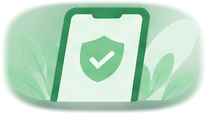
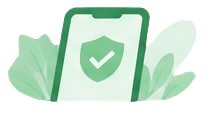
feat: add interactive transaction calendar

Changed region(s): [[0.0, 0.0, 0.9855, 1.0]]

diff --git a/src/pages/Calendar.jsx b/src/pages/Calendar.jsx
@@ -1,0 +1,123 @@
+import { useMemo, useState } from 'react';
+import { useNavigate } from 'react-router-dom';
+import { useApp } from '../context/AppContext';
+import { money } from '../lib/format';
+import { r2, cmpTx } from '../lib/stats';
+import { monthCells, shiftMonth, todayKey, dateKey, monthPrefix, groupByDate, summarize } from '../lib/calendar';
+import { TYPE_FILTERS, matchType } from '../lib/txFilter';
+import { categoryIcon, EMPTY_ART, CALENDAR_ART } from '../assets';
+import StatCard from '../components/StatCard';
+import EmptyState from '../components/EmptyState';
+
+const WEEK = ['Mon', 'Tue', 'Wed', 'Thu', 'Fri', 'Sat', 'Sun'];
+const TYPE_LABEL = { income: 'Income', expense: 'Expense', exchange: 'Exchange' };
+const compact = (v) => new Intl.NumberFormat(undefined, { notation: 'compact', maximumFractionDigits: 1 }).format(v);
+// Labels are formatted from UTC fields so the shown weekday/date can never shift with the viewer's timezone.
+const utcDate = (y, m, d) => new Date(Date.UTC(y, m, d));
+const longDate = (key) => { const p = /^(\d{4})-(\d{2})-(\d{2})$/.exec(key); return p ? utcDate(+p[1], +p[2] - 1, +p[3]).toLocaleDateString(undefined, { timeZone: 'UTC', weekday: 'long', year: 'numeric', month: 'long', day: 'numeric' }) : key; };
+const selFor = ({ y, m }) => (todayKey().startsWith(monthPrefix(y, m)) ? todayKey() : dateKey(y, m, 1));
+
+// Short per-day indicator lines: main currency first, other currencies tagged with their code. Exchange gets its own marker.
+function cellLines(sum, cur) {
+  const lines = [];
+  for (const c of Object.keys(sum.byCur).sort((a, b) => (a === cur ? -1 : b === cur ? 1 : a.localeCompare(b)))) {
+    const tag = c === cur ? '' : ' ' + c, { income, expense } = sum.byCur[c];
+    if (income > 0) lines.push({ kind: 'inc', text: `+${compact(income)}${tag}` });
+    if (expense > 0) lines.push({ kind: 'exp', text: `−${compact(expense)}${tag}` });
+  }
+  if (sum.exchanges) lines.push({ kind: 'exch', text: `⇄ ${sum.exchanges}` });
+  return lines;
+}
+function describe(key, sum) {
+  const parts = [];
+  for (const [c, v] of Object.entries(sum.byCur)) { if (v.income) parts.push(`income ${money(v.income, c)}`); if (v.expense) parts.push(`expenses ${money(v.expense, c)}`); }
+  if (sum.exchanges) parts.push(`${sum.exchanges} exchange${sum.exchanges > 1 ? 's' : ''}`);
+  return `${longDate(key)}${parts.length ? ': ' + parts.join(', ') : ': no transactions'}`;
+}
+
+function DayRow({ t }) {
+  const x = t.type === 'exchange';
+  const amt = x ? `${money(t.amount, t.currency)} → ${money(t.to_amount, t.to_currency)}` : (t.type === 'income' ? '+' : '−') + money(t.amount, t.currency);
+  return (
+    <li className="row">
+      <img className="cat-icon" src={categoryIcon(t.category)} alt="" />
+      <div className="grow">
+        <strong>{t.title}</strong>
+        <div className="muted small">{t.category}{t.account ? `, ${t.account}` : ''}, {t.currency}{x && t.to_currency ? ` → ${t.to_currency}` : ''} · {(t.time || '').slice(0, 5)}</div>
+        {x && t.rate ? <div className="muted small">Rate: 1 {t.currency} = {t.rate} {t.to_currency}</div> : null}
+        {t.notes && <div className="muted small">{t.notes}</div>}
+      </div>
+      <div className="rowright"><span className={'tag ' + t.type}>{TYPE_LABEL[t.type]}</span><div className={'amt ' + (x ? '' : t.type)}>{amt}</div></div>
+    </li>
+  );
+}
+
+export default function CalendarPage() {
+  const { data, loading, cur } = useApp(); const nav = useNavigate();
+  const today = todayKey();
+  const [view, setView] = useState(() => { const n = new Date(); return { y: n.getFullYear(), m: n.getMonth() }; });
+  const [sel, setSel] = useState(today);
+  const [filter, setFilter] = useState('all');
+  const cells = monthCells(view.y, view.m);
+  const byDate = useMemo(() => groupByDate(data.tx.filter((t) => matchType(t, filter)), view.y, view.m), [data.tx, filter, view]);
+  const go = (d) => { const v = shiftMonth(view, d); setView(v); setSel(selFor(v)); };
+  const goToday = () => { const n = new Date(); setView({ y: n.getFullYear(), m: n.getMonth() }); setSel(todayKey(n)); };
+
+  const dayTx = (byDate[sel] || []).slice().sort(cmpTx);
+  const sum = summarize(dayTx);
+  const curs = Object.keys(sum.byCur).length ? Object.keys(sum.byCur) : [cur]; // no activity: show zero totals, no invented records
+  const anyOnDate = data.tx.some((t) => t.date === sel);
+  const title = utcDate(view.y, view.m, 1).toLocaleDateString(undefined, { timeZone: 'UTC', month: 'long', year: 'numeric' });
+  const emptyText = filter !== 'all' && anyOnDate ? `No ${TYPE_LABEL[filter].toLowerCase()} transactions on this date.` : 'No transactions on this date yet.';
+
+  return (
+    <>
+      <header className="head"><div className="titlebox"><img className="page-art" src={CALENDAR_ART} alt="" /><h1>Transaction Calendar</h1></div><button className="btn" onClick={() => nav('/transactions?new=1')}>Add transaction</button></header>
+      <div className="calpage">
+        <section className="card cal" aria-label="Calendar">
+          <div className="cal-bar">
+            <div className="acts">
+              <button className="ghost cal-nav" aria-label="Previous month" onClick={() => go(-1)}>‹</button>
+              <h2 className="cal-title" aria-live="polite">{title}</h2>
+              <button className="ghost cal-nav" aria-label="Next month" onClick={() => go(1)}>›</button>
+            </div>
+            <div className="acts"><button className="ghost" onClick={goToday}>Today</button></div>
+          </div>
+          <div className="seg cal-filter" role="group" aria-label="Transaction type">{TYPE_FILTERS.map(([k, label]) => <button key={k} className={filter === k ? 'on' : ''} aria-pressed={filter === k} onClick={() => setFilter(k)}>{label}</button>)}</div>
+          <div className="cal-week" aria-hidden="true">{WEEK.map((d) => <span key={d}>{d}</span>)}</div>
+          <div className="cal-grid">
+            {cells.map((c, i) => {
+              if (!c) return <div key={'b' + i} className="cal-blank" aria-hidden="true" />;
+              const txs = byDate[c.key]; const s = txs ? summarize(txs) : null; const lines = s ? cellLines(s, cur) : [];
+              const kinds = [...new Set(lines.map((l) => l.kind))];
+              return (
+                <button key={c.key} type="button" className={'cal-cell' + (c.key === sel ? ' sel' : '') + (c.key === today ? ' today' : '')} aria-pressed={c.key === sel} aria-label={describe(c.key, s || { byCur: {}, exchanges: 0 })} onClick={() => setSel(c.key)}>
+                  <span className="cal-day">{c.day}</span>
+                  {lines.length > 0 && <span className="cal-amts">{lines.slice(0, 2).map((l, k) => <span key={k} className={'cal-amt ' + l.kind}>{l.text}</span>)}{lines.length > 2 && <span className="cal-more">+{lines.length - 2} more</span>}</span>}
+                  {kinds.length > 0 && <span className="cal-dots">{kinds.map((k) => <i key={k} className={k} />)}</span>}
+                </button>
+              );
+            })}
+          </div>
+          <div className="cal-legend muted small"><span><i className="inc" />Income</span><span><i className="exp" />Expenses</span><span><i className="exch" />Exchange (not counted as income or expenses)</span></div>
+          {loading && !data.tx.length && <p className="muted small">Loading transactions…</p>}
+        </section>
+
+        <section className="card daypanel" aria-label="Selected day">
+          <h2>{longDate(sel)}</h2>
+          {curs.map((c) => { const v = sum.byCur[c] || { income: 0, expense: 0, net: 0 }; return (
+            <div className="daysum" key={c}>
+              {curs.length > 1 && <div className="daysum-cur">{c}</div>}
+              <div className="daygrid">
+                <StatCard tone="income" label="Total income" value={money(v.income, c)} />
+                <StatCard tone="expense" label="Total expenses" value={money(v.expense, c)} />
+                <StatCard tone={v.net > 0 ? 'income' : v.net < 0 ? 'expense' : 'neutral'} label="Net cash flow" value={money(r2(v.net), c)} />
+              </div>
+            </div>); })}
+          {sum.exchanges > 0 && <p className="muted small">{sum.exchanges} currency exchange{sum.exchanges > 1 ? 's' : ''} listed below, not included in income or expenses.</p>}
+          {dayTx.length ? <ul className="list">{dayTx.map((t) => <DayRow key={t.id} t={t} />)}</ul> : <EmptyState compact art={EMPTY_ART.transactions} title={emptyText} text="Use Add transaction to record one." />}
+        </section>
+      </div>
+    </>
+  );
+}

diff --git a/src/styles.css b/src/styles.css
@@ -219,3 +219,56 @@ label .muted{font-weight:400}
   .planner-facts dd,.planner-tile b{text-align:right}
 }
 
+
+/* Transaction calendar */
+.calpage{display:grid;grid-template-columns:minmax(0,1.7fr) minmax(320px,1fr);gap:1rem;align-items:start}
+.calpage>*{min-width:0}.calpage .card{margin-bottom:0}
+.cal{container-type:inline-size}
+.cal-bar{display:flex;justify-content:space-between;align-items:center;gap:.75rem;flex-wrap:wrap;margin-bottom:.9rem}
+.cal-title{margin:0;min-width:9.5em;text-align:center;font-size:1.15rem}
+.cal-nav{width:44px;height:44px;font-size:1.3rem;line-height:1;padding:0}
+.cal-filter{display:flex;margin-bottom:1rem}.cal-filter button{flex:1;white-space:nowrap;min-height:44px}
+.cal-week,.cal-grid{display:grid;grid-template-columns:repeat(7,minmax(0,1fr));gap:6px}
+.cal-week span{font-size:.7rem;font-weight:700;text-transform:uppercase;letter-spacing:.06em;color:var(--muted);text-align:center;padding:.2rem 0 .4rem}
+.cal-blank{min-height:86px}
+.cal-cell{min-height:86px;min-width:0;display:flex;flex-direction:column;align-items:flex-start;gap:.25rem;padding:.4rem .45rem;border:1px solid var(--line);border-radius:12px;background:#fff;text-align:left;cursor:pointer;overflow:hidden;transition:background .15s,border-color .15s}
+.cal-cell:hover{background:var(--tint)}
+.cal-cell.sel{border-color:var(--brand);background:var(--tint);box-shadow:0 0 0 2px rgba(42,143,85,.25)}
+.cal-day{font-size:.85rem;font-weight:600;min-width:1.6rem;height:1.6rem;display:grid;place-items:center;border-radius:99px}
+.cal-cell.today .cal-day{background:var(--brand);color:#fff;font-weight:700}
+.cal-amts{display:flex;flex-direction:column;gap:1px;max-width:100%}
+.cal-amt,.cal-more{font-size:.72rem;font-weight:700;white-space:nowrap;overflow:hidden;text-overflow:ellipsis;max-width:100%}
+.cal-more{font-weight:500;color:var(--muted)}
+.cal-amt.inc{color:var(--ok)}.cal-amt.exp{color:var(--bad)}.cal-amt.exch{color:var(--muted)}
+.cal-dots{display:none;gap:3px;margin-top:auto}
+.cal-dots i,.cal-legend i{display:inline-block;width:7px;height:7px;border-radius:50%}
+i.inc{background:var(--ok)}i.exp{background:#E47777}i.exch{background:#9AA79F}
+.cal-legend{display:flex;flex-wrap:wrap;gap:.4rem 1rem;margin-top:.9rem}.cal-legend span{display:inline-flex;align-items:center;gap:.35rem}
+/* narrow calendar: keep the date big and show compact dots; amounts move to the day panel */
+@container (max-width: 560px){
+  .cal-week,.cal-grid{gap:4px}
+  .cal-cell,.cal-blank{min-height:54px}
+  .cal-cell{align-items:center;padding:.3rem .1rem}
+  .cal-amts{display:none}.cal-dots{display:flex}
+  .cal-filter button{padding:.35rem .2rem;font-size:.8rem}
+}
+.daypanel{container-type:inline-size}
+.daypanel h2{font-size:1.05rem}
+.daysum{margin-bottom:.8rem}.daysum-cur{font-size:.72rem;font-weight:700;letter-spacing:.06em;text-transform:uppercase;color:var(--muted);margin-bottom:.35rem}
+.daygrid{display:grid;grid-template-columns:1fr;gap:.5rem}
+.daygrid .stat{flex-direction:row;justify-content:space-between;align-items:center;min-height:54px;padding:.7rem .9rem}
+.daygrid .stat::after{display:none}
+.daygrid .stat-value{font-size:1.05rem;text-align:right}
+@container (min-width: 440px){
+  .daygrid{grid-template-columns:1fr 1fr}.daygrid .stat:last-child{grid-column:1/-1}
+}
+.rowright{display:flex;flex-direction:column;align-items:flex-end;gap:.25rem;min-width:0}
+.tag{font-size:.68rem;font-weight:700;padding:.1rem .55rem;border-radius:99px}
+.tag.income{background:var(--secondary);color:#1F6B41}.tag.expense{background:#FBE1E1;color:#A53A3A}.tag.exchange{background:#E8EFE9;color:var(--muted)}
+@media(max-width:1180px){.calpage{grid-template-columns:1fr}}
+
+/* Day panel rows: text on the first line; type tag and amount share the second line so long amounts always fit */
+.daypanel .row{display:grid;grid-template-columns:auto minmax(0,1fr);gap:.2rem .75rem;align-items:start}
+.daypanel .rowright{grid-column:2;flex-direction:row;justify-content:space-between;align-items:center;width:100%}
+.daypanel .amt{max-width:none;white-space:normal;text-align:right;overflow-wrap:anywhere}
+@media(max-width:700px){.calpage .cal.card{padding:.85rem .55rem}.cal-bar{padding:0 .3rem}}

diff --git a/src/lib/calendar.js b/src/lib/calendar.js
@@ -1,0 +1,41 @@
+// Calendar logic. Transactions are placed by their stored 'YYYY-MM-DD' date string, which is used as-is:
+// it is never parsed through Date/UTC, so a transaction can never shift to the neighbouring day in any timezone.
+// Pure calendar arithmetic (weekday of the 1st, days in a month) uses UTC so it is identical in every timezone, including
+// zones that once skipped a calendar day. Only "today" comes from the user's local clock. Month is 0-based throughout.
+import { r2 } from './stats';
+const pad = (n) => String(n).padStart(2, '0');
+export const dateKey = (y, m, d) => `${y}-${pad(m + 1)}-${pad(d)}`;
+export const monthPrefix = (y, m) => `${y}-${pad(m + 1)}-`;
+export const todayKey = (now = new Date()) => dateKey(now.getFullYear(), now.getMonth(), now.getDate());
+
+// Monday-first grid: null = padding cell. Rows are always full weeks (4 to 6 rows).
+export function monthCells(y, m) {
+  const lead = (new Date(Date.UTC(y, m, 1)).getUTCDay() + 6) % 7; // Sunday=0 -> 6, Monday=0 -> 0
+  const days = new Date(Date.UTC(y, m + 1, 0)).getUTCDate();      // day 0 of next month = last day of this one (handles leap years)
+  const cells = Array(lead).fill(null);
+  for (let d = 1; d <= days; d++) cells.push({ key: dateKey(y, m, d), day: d });
+  while (cells.length % 7) cells.push(null);
+  return cells;
+}
+export function shiftMonth({ y, m }, delta) {
+  const t = y * 12 + m + delta;
+  return { y: Math.floor(t / 12), m: ((t % 12) + 12) % 12 };
+}
+// { 'YYYY-MM-DD': [tx, ...] } for the visible month only
+export function groupByDate(tx, y, m) {
+  const prefix = monthPrefix(y, m), out = {};
+  for (const t of tx) if (typeof t.date === 'string' && t.date.startsWith(prefix)) (out[t.date] = out[t.date] || []).push(t);
+  return out;
+}
+// Per-currency income / expense / net. Different currencies are never added together and no rates are used.
+// Exchange transactions are counted separately and are NOT part of income or expenses.
+export function summarize(txs) {
+  const byCur = {}; let exchanges = 0;
+  for (const t of txs) {
+    if (t.type === 'exchange') { exchanges++; continue; }
+    const c = (byCur[t.currency] = byCur[t.currency] || { income: 0, expense: 0 });
+    c[t.type === 'income' ? 'income' : 'expense'] = r2(c[t.type === 'income' ? 'income' : 'expense'] + t.amount);
+  }
+  for (const c of Object.values(byCur)) c.net = r2(c.income - c.expense);
+  return { byCur, exchanges, count: txs.length };
+}

diff --git a/src/assets/index.js b/src/assets/index.js
@@ -8,6 +8,9 @@ import navStatistics from './icons/navigation/nav-statistics.png';
 import navBudget from './icons/navigation/nav-budget-planner.png';
 import navSavings from './icons/navigation/nav-savings-goals.png';
 import navSettings from './icons/navigation/nav-settings.png';
+import navCalendar from './icons/navigation/nav-calendar.png';
+import navCalendarOn from './icons/navigation/nav-calendar-active.png';
+import calendarArt from './icons/features/feature-transaction-calendar.png';
 import navDashboardOn from './icons/navigation/nav-dashboard-active.png';
 import navTransactionsOn from './icons/navigation/nav-transactions-active.png';
 import navStatisticsOn from './icons/navigation/nav-statistics-active.png';
@@ -44,7 +47,7 @@ import sprig from './backgrounds/decor-leaf-sprig.png';
 
 export const BRAND = { icon: iconDark, wordmark };
 export const NAV_ICONS = {
-  '/': [navDashboard, navDashboardOn], '/transactions': [navTransactions, navTransactionsOn], '/statistics': [navStatistics, navStatisticsOn],
+  '/': [navDashboard, navDashboardOn], '/transactions': [navTransactions, navTransactionsOn], '/statistics': [navStatistics, navStatisticsOn], '/calendar': [navCalendar, navCalendarOn],
   '/budgets': [navBudget, navBudgetOn], '/savings': [navSavings, navSavingsOn], '/settings': [navSettings, navSettingsOn],
 };
 const CATEGORY_ICONS = { Food: catFood, Transportation: catTransport, Shopping: catShopping, Entertainment: catEntertainment, Education: catEducation, Health: catHealth, Bills: catBills, Gift: catGift, Other: catOther };
@@ -54,4 +57,5 @@ export const PAGE_ART = { dashboard: pageDashboard, statistics: pageStatistics, 
 export const EMPTY_ART = { transactions: emptyTx, budgets: emptyBudgets, goals: emptyGoals };
 export const HERO_ART = { manage: heroManage, budget: heroBudget, goal: heroGoal };
 export const AUTH_ART = authArt;
+export const CALENDAR_ART = calendarArt;
 export const DECOR = { sprig };

diff --git a/src/App.jsx b/src/App.jsx
@@ -8,6 +8,7 @@ import Transactions from './pages/Transactions';
 import Statistics from './pages/Statistics';
 import Savings from './pages/Savings';
 import Budgets from './pages/Budgets';
+import CalendarPage from './pages/Calendar';
 import Settings from './pages/Settings';
 
 function Gate() {
@@ -20,6 +21,7 @@ function Gate() {
         <Route path="/" element={<Dashboard />} />
         <Route path="/transactions" element={<Transactions />} />
         <Route path="/statistics" element={<Statistics />} />
+        <Route path="/calendar" element={<CalendarPage />} />
         <Route path="/budgets" element={<Budgets />} />
         <Route path="/savings" element={<Savings />} />
         <Route path="/settings" element={<Settings />} />

diff --git a/src/components/Layout.jsx b/src/components/Layout.jsx
@@ -3,7 +3,7 @@ import { useApp } from '../context/AppContext';
 import { BRAND, NAV_ICONS } from '../assets';
 // [path, label, short label for the mobile tab bar]
 const groups = [
-  ['Menu', [['/', 'Dashboard', 'Dashboard'], ['/transactions', 'Transactions', 'Transactions'], ['/statistics', 'Statistics', 'Stats']]],
+  ['Menu', [['/', 'Dashboard', 'Dashboard'], ['/transactions', 'Transactions', 'Transactions'], ['/statistics', 'Statistics', 'Stats'], ['/calendar', 'Transaction Calendar', 'Calendar']]],
   ['Planning', [['/budgets', 'Budget Planner', 'Budget'], ['/savings', 'Savings Goals', 'Savings']]],
   ['Preferences', [['/settings', 'Settings', 'Settings']]],
 ];

diff --git a/src/lib/txFilter.js b/src/lib/txFilter.js
@@ -1,0 +1,3 @@
+// Transaction type filter shared by views that need it. Same four options as the Transactions page dropdown.
+export const TYPE_FILTERS = [['all', 'All'], ['income', 'Income'], ['expense', 'Expenses'], ['exchange', 'Exchange']];
+export const matchType = (t, filter) => filter === 'all' || t.type === filter;
